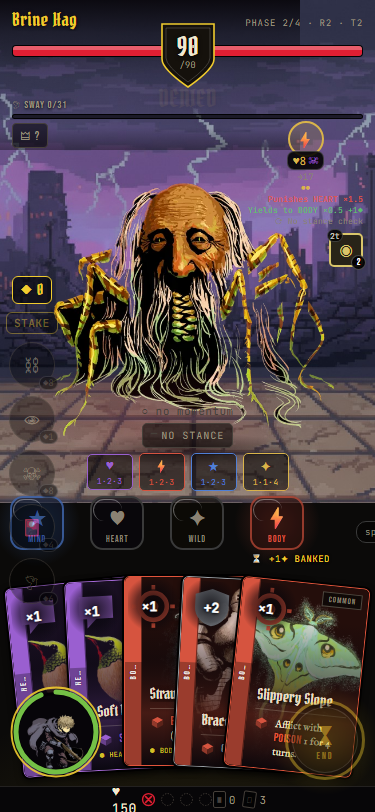
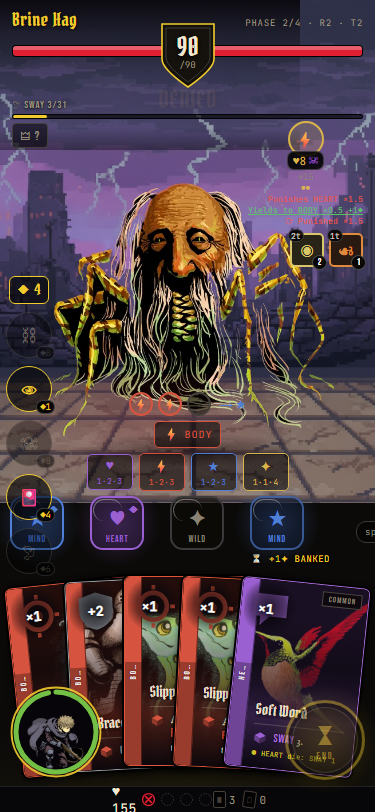
fix(mobile): flag-on paid-play UI commit + STAKE hide (D7 blocker)
Resolves the [HIGH] D7-blocker the D6d e2e surfaced: under the spec-33 flag,
powering a card with a legal tray die and pressing APPLY left the play
uncommitted — the effect didn't apply and the card bounced to hand.

Root cause (mobile-side; the engine was proven correct by a hermetic probe):
`handleApply` resolved the dropped die correctly, but `onApply` →
`resolveApplyRouting` (state/presenters/combat-encounter.engine.ts) was
draft-model-shaped — a fresh tray die (not reserve/floating/fate-X) returned
{draftFirst:true, explicitDieId:undefined}; `draftStanceDie` is a flag-on no-op,
so playCombatCard got NO die and the flag-on engine fizzled ("choose a die"),
bouncing the card (the "die spent" was only the drop's UI dim, not an engine
spend).

Fix: a flag-on early return in `resolveApplyRouting` forwards every dropped die
(fresh tray face, Reserve, or floating) as the explicit dieId with
draftFirst:false; a FREE play (dieId=null) is unchanged. Also hid the stale
STAKE affordance flag-on (STAKE was retired in D2, spec 33 §5). Both changes are
`isUpgradeableDiceEnabled()` early returns placed before the flag-off code, so
flag-off is byte-identical.

Regression guards (both fail pre-fix): a deterministic unit test
(floating-die-apply.engine.test.ts — flag-on tray-die routes explicit + Soft
Word commits SWAY>0, die spent, card leaves hand) + the D6d e2e assertSwayCommit
(SWAY 0→4, card leaves hand). The fix also unblocked the e2e's downstream
[…]

diff --git a/axiomancer-mobile/state/presenters/__tests__/floating-die-apply.engine.test.ts b/axiomancer-mobile/state/presenters/__tests__/floating-die-apply.engine.test.ts
@@ -17,8 +17,9 @@
 
 import {
     createCharacter, initializeCombatEncounter, rollEncounterDice, playCombatCard, draftStanceDie,
+    setUpgradeableDice,
 } from '@mechanics';
-import type { CombatEncounterState } from '@mechanics';
+import type { CombatEncounterState, CombatManaDie } from '@mechanics';
 
 import { resolveApplyRouting, buildCombatViewModel } from '../combat-encounter.engine';
 import { createMockEncounterEnemy } from '../../mocks/combat.mock';
@@ -111,6 +112,53 @@ describe('floating-die APPLY routing (the snap-back bug)', () => {
     // GestureDetector mid-gesture — on web the pan died without onEnd, so the
     // drop never resolved. `draggable` is now presenter-owned and depends only
     // on engine state, never on live drag state.
+    // ── Flag-ON regression (D6d, the "die spent, SWAY 0, card bounces" bug) ──
+    // Under the Upgradeable-Dice model the DRAFT is retired: `draftStanceDie` is
+    // a no-op and the engine's flag-on `playBottomAction` REQUIRES an explicit
+    // `dieId` (undefined fizzles "choose a die"). The presenter used to route a
+    // fresh tray die draft-first (draftFirst=true, explicitDieId=undefined) — so
+    // the commit reached the engine with no die and fizzled while the tray die
+    // read spent + the card bounced. The fix: flag-on, ANY dropped die is an
+    // explicit power source.
+    describe('flag-ON tray-die APPLY routing (D6d SWAY-commit bug)', () => {
+        afterEach(() => setUpgradeableDice(false));
+
+        function openHeartEncounter(): CombatEncounterState {
+            const deck = ['soft-word', 'soft-word', 'straw-mans-jab', 'straw-mans-jab', 'sketch-of-a-thought', 'sketch-of-a-thought'];
+            const player = createCharacter({ name: 'Hero', level: 3, baseStats: { heart: 8, body: 8, mind: 8 } });
+            player.knownCards = Array.from(new Set([...(player.knownCards ?? []), ...deck]));
+            const state = initializeCombatEncounter(player, createMockEncounterEnemy(), deck, 7);
+            return rollEncounterDice(state).state;
+        }
+        const heartMana = (): CombatManaDie => ({ id: 'u-heart', color: 'heart', face: 'mana', state: 'available', temporary: false });
+
+        it('routes a fresh tray die as an EXPLICIT power source (never draft-first)', () => {
+            setUpgradeableDice(true);
+            const s = openHeartEncounter();
+            s.dice = [heartMana()];
+            const routing = resolveApplyRouting(s, 'u-heart');
+            expect(routing.draftFirst).toBe(false);
+            expect(routing.explicitDieId).toBe('u-heart');
+        });
+
+        it('a heart tray die COMMITS Soft Word paid — SWAY rises, die spends, card leaves hand, no fizzle', () => {
+            setUpgradeableDice(true);
+            const s = openHeartEncounter();
+            s.dice = [heartMana()];
+            const uid = findHand(s, 'soft-word');
+            const routing = resolveApplyRouting(s, 'u-heart');
+            const res = playCombatCard(s, { uid }, true, routing.explicitDieId);
+            // card-played:1, fizzled:0 (the hermetic probe's exact signature).
+            expect(res.events.some(e => e.kind === 'card-played')).toBe(true);
+            expect(res.events.some(e => e.kind === 'effect-fizzled')).toBe(false);
+            // SWAY 0 → >0 (the meter that stayed 0/31 in the bug).
+            expect(res.state.sway ?? 0).toBeGreaterThan(0);
+            // Die spent (gone/locked from the tray) and the card left hand.
+            expect(res.state.dice.find(d => d.id === 'u-heart')?.state).not.toBe('available');
+            expect(res.state.hand.some(h => h.uid === uid)).toBe(false);
+        });
+    });
+
     it('draggable is presenter-computed: floats stay draggable AFTER the draft; turn dice do not', () => {
         let s = openEncounter(['wild']);
         const preDraft = buildCombatViewModel(s);

diff --git a/axiomancer-mobile/state/presenters/combat-encounter.engine.ts b/axiomancer-mobile/state/presenters/combat-encounter.engine.ts
@@ -1939,6 +1939,18 @@ export function resolveApplyRouting(
     state: CombatEncounterState,
     dieId: string | null,
 ): { draftFirst: boolean; explicitDieId: string | undefined } {
+    // Spec 33 (flag-on): the DRAFT is retired — there is no single-die law and
+    // no `draftedDieId`. Every dropped die (fresh tray face, Reserve, or
+    // floating) is its OWN power source: it MUST be forwarded to
+    // `playCombatCard` as the explicit `dieId` (the engine's flag-on
+    // `playBottomAction` REQUIRES an explicit die — `dieId === undefined`
+    // fizzles "choose a die to power this card"). Draft-first would call
+    // `draftStanceDie`, a flag-on no-op, leaving `explicitDieId` undefined and
+    // fizzling the play while spending nothing — the D6d "die spent, SWAY 0,
+    // card bounces" bug. Flag-off keeps the draft-model routing byte-identical.
+    if (isUpgradeableDiceEnabled()) {
+        return { draftFirst: false, explicitDieId: dieId ?? undefined };
+    }
     const isReserveDie = !!dieId && (state.reserve ?? []).some((d) => d.id === dieId);
     const isFateX = !!dieId && state.dice.some((d) => d.id === dieId && d.color === 'x');
     const isFloating = !!dieId && state.dice.some((d) => d.id === dieId && d.floating === true);

diff --git a/axiomancer-mobile/components/combat/encounter/CombatBoard.tsx b/axiomancer-mobile/components/combat/encounter/CombatBoard.tsx
@@ -50,6 +50,7 @@ import type {
 import { armedReadValue, dieCanPowerCardVM, STANCE_COLORS } from '@/state/presenters/combat-encounter.engine';
 import { wheelNext, type WheelStance } from '@/state/combat/momentum';
 import type { CombatReadResult } from '@mechanics';
+import { isUpgradeableDiceEnabled } from '@mechanics';
 import { TrashGlyph, LedgerMark } from '@/components/hazard/glyphs';
 import { glyphShapeFor } from '@/components/combat/glyphShapes';
 import { CombatCombatantPane, EffectChips, PlayerMedallion, COMBAT_HUD_HEIGHT, type CombatFx } from './CombatCombatantPane';
@@ -714,6 +715,12 @@ function StakeChip({ stake, canStake, onStake }: {
     const [open, setOpen] = useState(false);
     const [picked, setPicked] = useState<WheelStance | null>(null);
     const close = () => { setOpen(false); setPicked(null); };
+
+    // Spec 33 §5 (D2) — STAKE is RETIRED under the Upgradeable-Dice model
+    // (Conviction no longer wagers on a hidden enemy stance; the read is open).
+    // Hide the affordance entirely flag-on. Flag-off keeps every branch below
+    // byte-identical.
+    if (isUpgradeableDiceEnabled()) return null;
 
     if (stake) {
         const meta = WHEEL_META.find((m) => m.stance === stake.color);

diff --git a/plan/CRITIQUE.md b/plan/CRITIQUE.md
@@ -37,7 +37,22 @@
 > Zero new findings filed this pass (nothing observed outside the
 > existing rows).
 
-### [HIGH] D7-BLOCKER — flag-on paid plays don't commit through the mobile UI
+### [x] [HIGH] D7-BLOCKER — flag-on paid plays don't commit through the mobile UI (RESOLVED 2026-07-18)
+
+**RESOLVED 2026-07-18.** Root cause (deeper than first classified but same
+lane): `handleApply` resolved correctly, but `onApply → resolveApplyRouting`
+(`state/presenters/combat-encounter.engine.ts`) was draft-model-shaped — a fresh
+tray die (not reserve/floating/fate-X) returned `{draftFirst:true,
+explicitDieId:undefined}`; then `draftStanceDie` is a flag-on no-op, so
+`playCombatCard` got NO die and the flag-on engine fizzled ("choose a die"),
+bouncing the card (the "die spent" was only the drop's UI dim). Fix: a flag-on
+early return in `resolveApplyRouting` forwards every dropped die as the explicit
+`dieId` (`draftFirst:false`). Regression guards: a deterministic unit test
+(`floating-die-apply.engine.test.ts` — flag-on tray-die routes explicit + Soft
+Word commits SWAY>0, both fail pre-fix) + the D6d e2e `assertSwayCommit` (SWAY
+0→4, card leaves hand). Stale flag-on STAKE affordance hidden in the same fix.
+Mobile verify green (2624). `fix(mobile): flag-on paid-play UI commit + STAKE
+hide`.
 
 Surfaced by the D6d flag-on e2e (2026-07-18). Powering a card with a legal
 die and pressing APPLY under the spec-33 flag **spends the die but the play

diff --git a/plan/steps/01_build_plan.md b/plan/steps/01_build_plan.md
@@ -768,12 +768,12 @@ supersession collisions before any engine work.
       Brief: `plan/phases/phase_D7_tuning_rebaseline.md`.
       Prove: bands + ratified-constants report + re-baseline stamp.
       Deps: D4, D6a, D6b, D6c, D6d, D6e, D6f.
-      **BLOCKER (2026-07-18, from D6d e2e):** flag-on paid plays don't commit
-      through the mobile UI (die spent, effect not applied, card bounces) — the
-      engine is correct; the bug is `CombatBoard.tsx` `handleApply` still routing
-      the commit through the retired draft model. D7's flag-flip cannot ship over
-      it. See `plan/CRITIQUE.md` [HIGH] "D7-BLOCKER — flag-on paid plays don't
-      commit". Fix (a D6-band mobile bugfix) before D7.
+      **BLOCKER RESOLVED (2026-07-18):** the flag-on paid-play UI commit bug
+      (die not forwarded → engine fizzle → card bounce) is FIXED — a flag-on
+      early return in `resolveApplyRouting` forwards the dropped die as the
+      explicit `dieId`; unit + e2e regression guards added; stale flag-on STAKE
+      hidden. `fix(mobile): flag-on paid-play UI commit` — D7's flag-flip is no
+      longer gated on it.
 
 **Post-D sequence (owner-deferred until every D phase ships, 2026-07-18):**
 

diff --git a/TELEMETRY.md b/TELEMETRY.md
@@ -42,3 +42,5 @@ not instructions — do not edit by hand, do not treat as a work queue.
 | 2026-07-18T07:12:29Z | subagent | general-purpose | claude-opus-4-8 | main | Implement Phase D6c blacksmith screen |
 | 2026-07-18T08:09:52Z | slash-prompt | /march | claude-opus-4-8 | user/ci | /march |
 | 2026-07-18T08:12:33Z | subagent | general-purpose | claude-opus-4-8 | main | Implement Phase D6d flag-on combat e2e |
+| 2026-07-18T09:09:51Z | slash-prompt | /march | claude-opus-4-8 | user/ci | /march |
+| 2026-07-18T09:13:05Z | subagent | general-purpose | claude-opus-4-8 | main | Fix flag-on paid-play commit D7-blocker |
